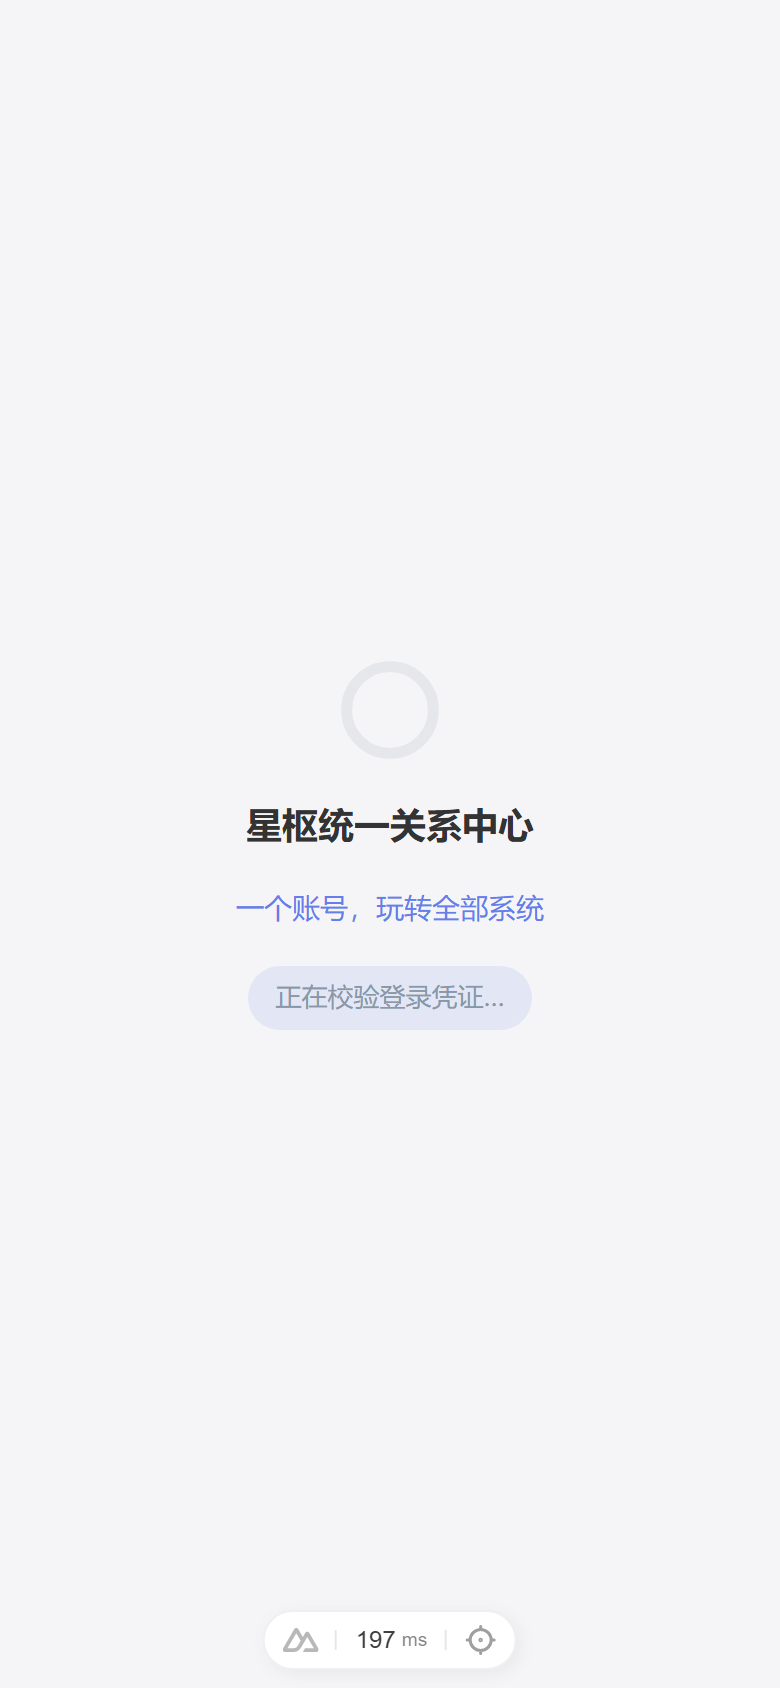
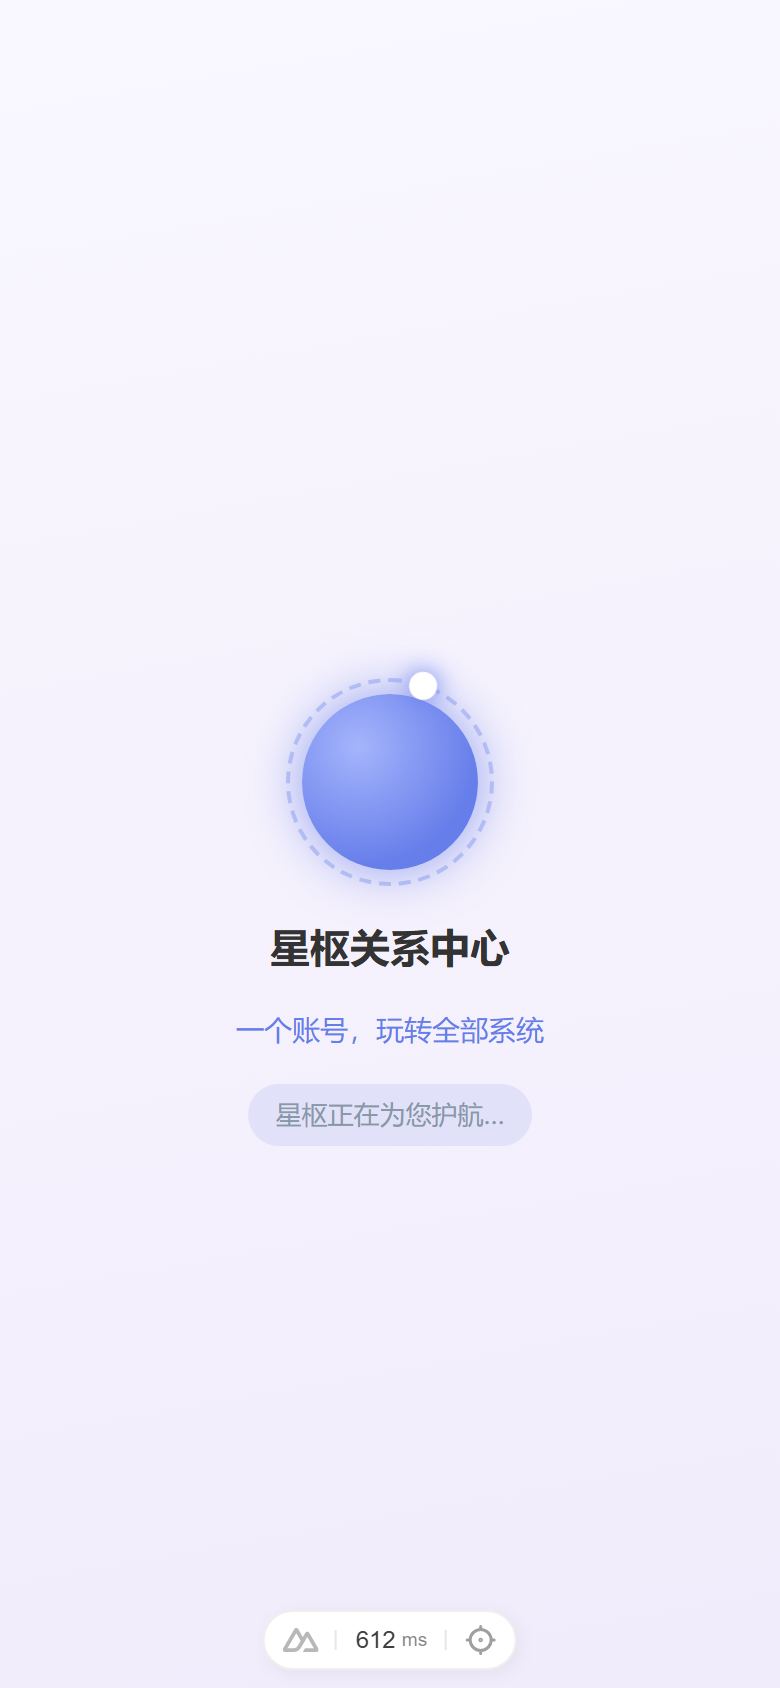
docs(sso): 等待遮罩焕新手机截图与手册

Changed region(s): [[0.3077, 0.3697, 0.7077, 0.6161], [0.3385, 0.6469, 0.6154, 0.6777], [0.4615, 0.955, 0.4923, 0.9858]]

diff --git a/docs/superpowers/manual/sso-await-branded/index.html b/docs/superpowers/manual/sso-await-branded/index.html
@@ -3,7 +3,7 @@
 <head>
 <meta charset="utf-8" />
 <meta name="viewport" content="width=device-width, initial-scale=1" />
-<title>微信自动 SSO 登录 · 等待区品牌化 + 提速验收手册</title>
+<title>微信自动 SSO 登录 · 等待遮罩焕新（星轨卫星环）验收手册</title>
 <style>
   :root { --purple:#667eea; --link:#2b7cff; --line:#eee; --muted:#888; }
   body { font-family: system-ui, -apple-system, "PingFang SC", "Microsoft YaHei", sans-serif; max-width: 940px; margin: 0 auto; padding: 24px 20px 60px; line-height: 1.7; color:#222; }
@@ -24,14 +24,15 @@
 </style>
 </head>
 <body>
-  <h1>微信自动 SSO 登录 · 等待区品牌化 + 提速 验收手册</h1>
-  <p>提交 <code>88c5da4</code> 起含 Task1-4；本页为 <b>Task5</b> 回归 + 手机视口截图验收。日期 2026-09-22。</p>
+  <h1>微信自动 SSO 登录 · 等待遮罩焕新（星轨卫星环）验收手册</h1>
+  <p>提交 <code>baa19b6</code> 起含 Task1（等待遮罩焕新）；本页为 <b>Task2</b> 手机视口截图回归 + 手册更新。日期 2026-09-22。</p>
 
   <h2>一、方案概述</h2>
-  <p>微信内置浏览器未登录进入商城时，会自动跳转 h.joho.cn 统一登录页完成 SSO 静默授权。原实现在跳转前需<b>实时网络拉取</b> SSO provider，出现白屏等待。本方案两项改造：</p>
+  <p>微信内置浏览器未登录进入商城时，会自动跳转 h.joho.cn 统一登录页完成 SSO 静默授权。原实现在跳转前需<b>实时网络拉取</b> SSO provider，出现白屏等待。本方案三项改造（登录链路未动，预取/跳转逻辑保持 Task1 既有）：</p>
   <ul>
     <li><b>提速（预取优先）</b>：<code>useSso.startProviderPrefetch()</code> 在 <code>app.vue</code> setup 即幂等预取 provider（localStorage 10 分钟 TTL 缓存）；跳转时 <code>getRedirectProvider()</code> 预取命中 → 省略二次网络，立即跳转。</li>
-    <li><b>等待区品牌化</b>：跳转发起前置 <code>pending=true</code>，未登录 + 微信环境渲染品牌遮罩 <code>&lt;SsoAwaitOverlay /&gt;</code>（星枢紫 #667eea，标题「星枢统一关系中心」，slogan 轮播 + 旋转动效），替代原白屏。</li>
+    <li><b>等待区品牌化</b>：跳转发起前置 <code>pending=true</code>，未登录 + 微信环境渲染品牌遮罩 <code>&lt;SsoAwaitOverlay /&gt;</code>（星枢紫 #667eea），替代原白屏。</li>
+    <li><b>动效焕新（Task1）</b>：遮罩主视觉升级为<b>放大星轨卫星环</b><code>div.sso-orb</code> 三件套——品牌紫发光球（core）、虚线轨道环（ring）、白点卫星环绕（sat，1.6s 匀速公转）；整体<b>居中上移</b>排版；标题精简为「星枢关系中心」；状态胶囊「星枢正在为您护航…」；<b>4 条广告语轮播</b>（2.6s 淡入切换）；<code>prefers-reduced-motion</code> 时关闭旋转/轮播动画，仅静态品牌卡。</li>
   </ul>
 
   <h2>二、关键路径与降级</h2>
@@ -56,16 +57,16 @@
   <h2>四、手机视口截图（Playwright，390×844 dpr2）</h2>
   <div class="phones">
     <figure class="phone">
-      <img src="shots/shot-1-pending-branded-overlay.png" alt="等待期品牌遮罩" />
-      <figcaption><span class="tag">① 等待期品牌遮罩</span>：微信 UA + 未登录，拦截 ssoProviders 响应延迟 3s 使 <code>pending=true</code> 保持，捕捉到星枢品牌遮罩（标题/spinner/slogan）。像素核验含品牌紫 #667eea。</figcaption>
+      <img src="shots/shot-1-pending-branded-overlay.png" alt="等待期品牌遮罩（星轨卫星环）" />
+      <figcaption><span class="tag">① 等待期品牌遮罩（星轨卫星环）</span>：微信 UA + 未登录，拦截 ssoProviders 响应延迟 4s 使 <code>pending=true</code> 保持，捕捉到焕新后品牌遮罩——放大星轨卫星环（sso-orb 发光core + 虚线ring + 白点sat 环绕）、标题「星枢关系中心」、状态胶囊「星枢正在为您护航…」、广告语轮播。像素核验 ring 边界 <code>rgba(102,126,234,0.35)</code> 命中品牌紫 #667eea。</figcaption>
     </figure>
     <figure class="phone">
       <img src="shots/shot-2-prefetch-jump-unified.png" alt="预取命中立即跳统一页" />
-      <figcaption><span class="tag">② 预取命中立即跳星枢</span>：微信 UA + 未登录，不阻塞请求，真实跳转到 h.joho.cn 统一登录页（URL 含 app_code/return_url/channel_code）。遮罩几乎不闪即跳，验证预取提速。</figcaption>
+      <figcaption><span class="tag">② 预取命中立即跳星枢</span>：微信 UA + 未登录，不阻塞请求，真实跳转到 h.joho.cn 统一登录页（URL 含 app_code/return_url/channel_code）。遮罩几乎不闪即跳，验证预取提速（登录链路未变）。</figcaption>
     </figure>
     <figure class="phone">
       <img src="shots/shot-3-normal-home-no-overlay.png" alt="普通非微信页正常浏览" />
-      <figcaption><span class="tag">③ 非微信页不误出遮罩</span>：普通移动 UA + 未登录访问首页，断言语义 <code>.sso-await-overlay</code> count=0，正常渲染商城首页。</figcaption>
+      <figcaption><span class="tag">③ 非微信页不误出遮罩</span>：普通移动 UA + 未登录访问首页，断言语义 <code>.sso-await-overlay</code> count=0，正常渲染商城首页（回归，不误出焕新遮罩）。</figcaption>
     </figure>
   </div>
 
